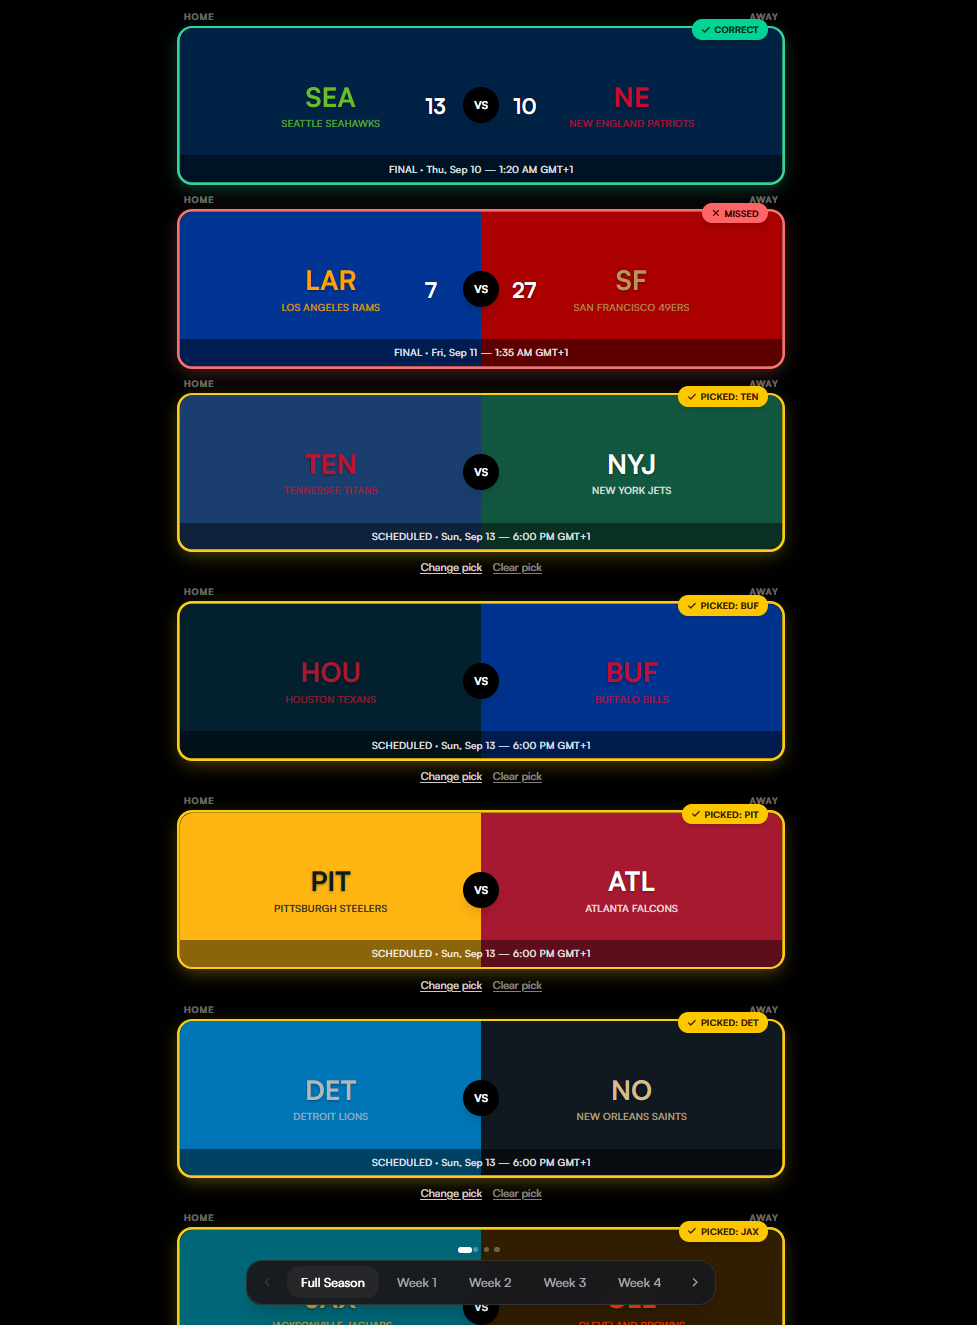
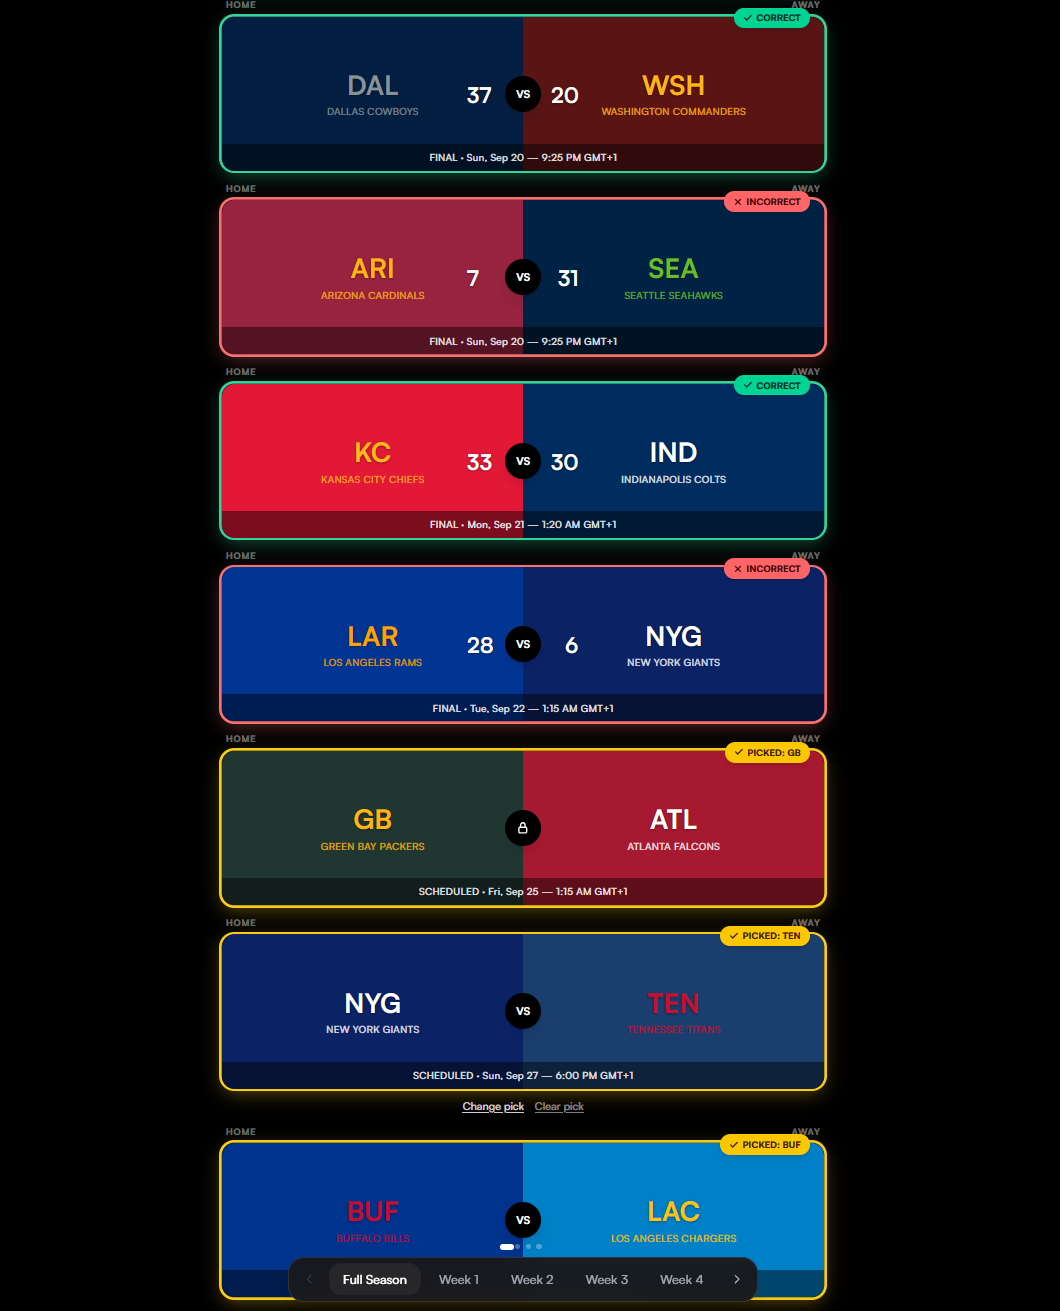
README Screenshots

diff --git a/README.md b/README.md
@@ -9,9 +9,8 @@ A full-stack NFL predictions app: pick a winner for every game, build a streak, 
 
 <p>
   <img src="docs/screenshots/picks.png" alt="Games page with picks, results and locked games" width="32%" />
-  <!-- Row of 3. Waiting on more finals before capturing the other two.
-       Add them here as siblings, each width="32%", in this order:
-       profile stats  ->  leaderboard -->
+  <img src="docs/screenshots/leaderboard.png" alt="Public Leaderboard with each users' stats" width="32%" />
+  <img src="docs/screenshots/profilestats.png" alt="User's private profiles with statistics" width="32%" />
 </p>
 
 ## Features
